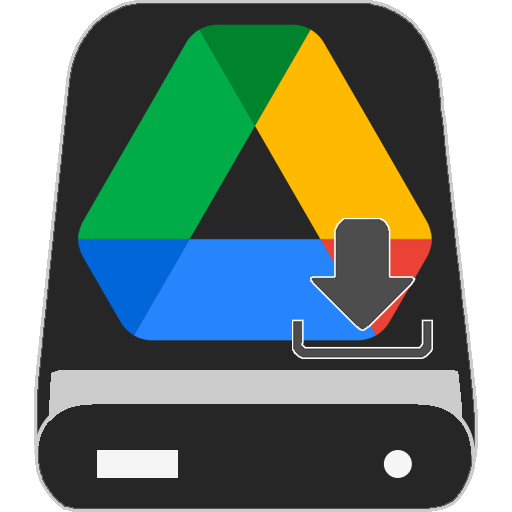
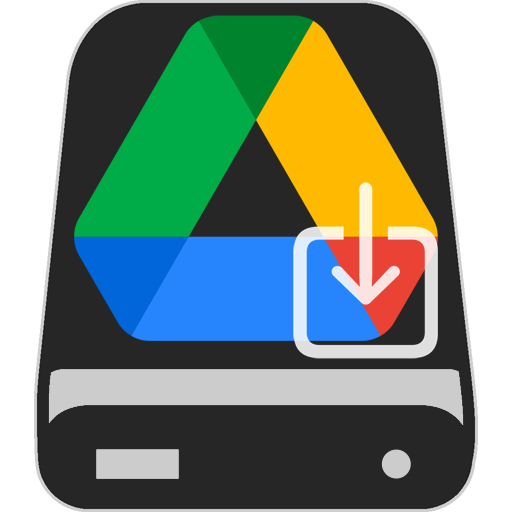
Update GitHub Pages site & build process
Below are the original commits from this squash:

- Remove unnecessary semicolon
- Just try to get the thing to run once
- Add tag to render content as markdown
- Change LICENSE to LICENSE.md
- Give License a header
- Add yaml front matter
- Update icon
- Add new icon, change LICENSE file to plain text
- Fix LICENSE in github-pages-items.txt
- Remove license from github pages
- Use a _config.yml to make GH Pages easier
- Add quotes to glob
- Move _config.yml into pages dir & build there
- Fix image replacement string
- Try to fix missing index.html
- Again!
- Fix LICENSE links manually
- Make headings h2
- Remove image from include, not needed
- Turn off the heading on the Readme for pages
- Fix formatting of inline code in Readme

diff --git a/src/drive_backup/core/drivebackup.py b/src/drive_backup/core/drivebackup.py
@@ -74,7 +74,7 @@ def get_source_folder():
             msg += f"{item['name']}  {item['mimeType']} ({item['id']})"
         logger.critical(f'Multiple items with the same name: {msg}')
 
-    return None;
+    return None
 
 def get_save_destination():
     parent_destination = config.destination

diff --git a/README.md b/README.md
@@ -1,17 +1,17 @@
-<div align="center">
+<div align="center" markdown="1">
 
-[![Drive Backup Logo](https://www.georgeh2os.com/Drive-Backup/drive-backup-icon.png)](./)
+[![Drive Backup Logo](src/drive_backup/resources/drive-backup-icon.png)]()
 
 # Drive Backup
 
-**A simple way to backup your Google Drive locally.**
+### A simple way to backup your Google Drive locally.
 
 [![PyPI - Version](https://img.shields.io/pypi/v/drive-backup)](https://pypi.org/project/drive-backup/)
 [![GitHub Release](https://img.shields.io/github/v/release/dunkmann00/drive-backup?logo=github)](https://github.com/dunkmann00/Drive-Backup-Credentials/releases/latest)
 [![PyPI - Python Version](https://img.shields.io/pypi/pyversions/drive-backup)](https://pypi.org/project/drive-backup/)
 [![Release - Workflow](https://github.com/dunkmann00/Drive-Backup/actions/workflows/release.yml/badge.svg?branch=main)](https://github.com/dunkmann00/Drive-Backup/actions/workflows/release.yml)
 [![Github Pages - Workflow](https://github.com/dunkmann00/Drive-Backup/actions/workflows/github_pages.yml/badge.svg?branch=main)](https://github.com/dunkmann00/Drive-Backup/actions/workflows/github_pages.yml)
-[![License](https://img.shields.io/badge/License-MIT-maroon)](./LICENSE)
+[![License](https://img.shields.io/badge/License-MIT-maroon)](LICENSE.md)
 
 </div>
 
@@ -90,8 +90,8 @@ in), a browser window will open asking you to sign in to Google and to give
 Drive Backup permission to download files from Google Drive.
 
 Below are some common examples to show how Drive Backup works. To see more info
-about all of the options and commands run `dbackup -h` or `dbackup [command]
--h`.
+about all of the options and commands run `dbackup -h` or `dbackup [command] -h`
+.
 
 Backup your entire Google Drive into the current directory. Drive Backup will
 make a directory in your current directory titled `Google Drive Backup {date}`
@@ -170,4 +170,4 @@ dbackup backup --client-credentials path/to/your/personal/credentials.json
 Google Drive is a trademark of Google Inc. Use of this trademark is subject to
 Google Permissions.
 
-2024 George Waters under the MIT License. See [LICENSE](./LICENSE) for details.
+2024 George Waters under the MIT License. See [LICENSE](LICENSE.md) for details.

diff --git a/Privacy.md b/Privacy.md
@@ -1,4 +1,4 @@
-# Privacy Policy
+## Privacy Policy
 
 Drive Backup requests access to read all files in your Google Drive. It does
 this so it can download any files you instruct it to, onto your local

diff --git a/LICENSE.md b/LICENSE.md
@@ -1,4 +1,4 @@
-MIT License
+## MIT License
 
 Copyright (c) 2024 George Waters
 
